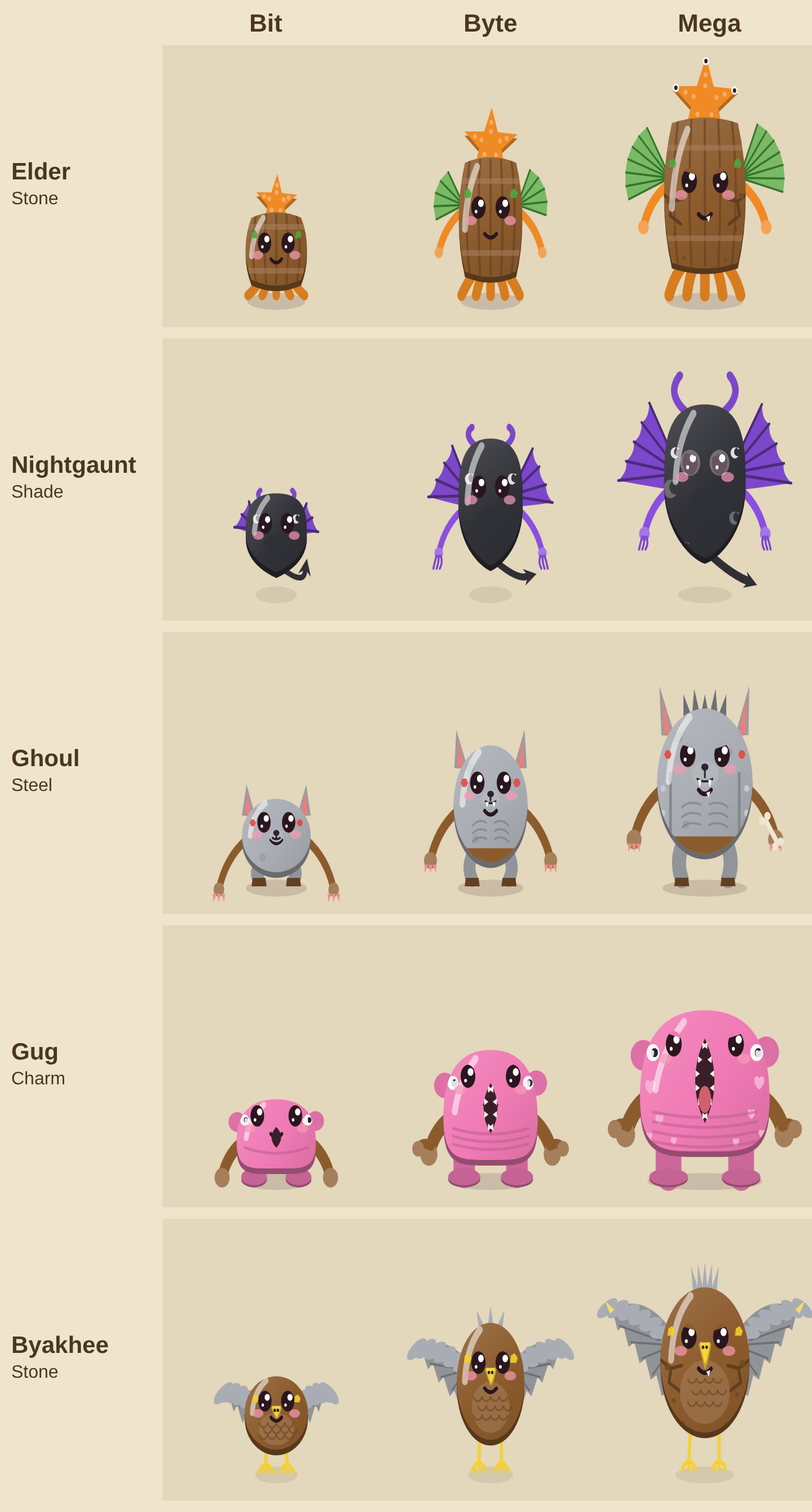
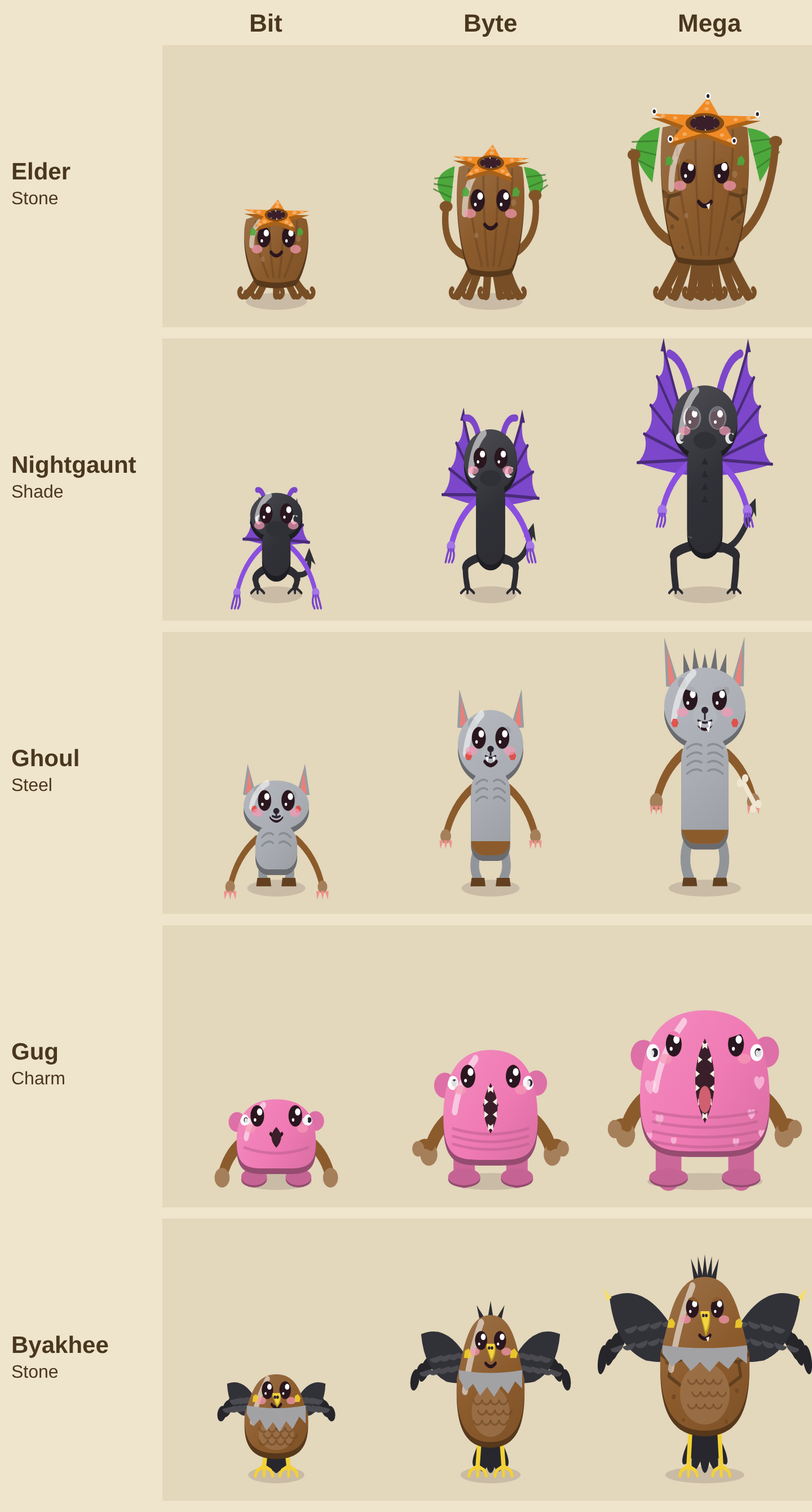
Redraw four of horror group 2 to Gid's notes
Ghoul stands as a gaunt dog-headed person, Nightgaunt is a thin crouching gargoyle with
raised bat wings, Elder is a squid body with a flat starfish mouth on top, and Byakhee is a
ragged vulture with a pale ruff and spread feathered wings. Gug unchanged.

Claude-Session: https://claude.ai/code/session_01MQWzxVrGaM5SWzbnobBWB8

diff --git a/prototype/chibi.js b/prototype/chibi.js
@@ -3483,84 +3483,98 @@ x.feet.push([g.cx, 182, 10]); },
       head: g => [g.cx, g.top, g.bw * 0.46],
       face(c, g, x, look) { const hh = FAM.Migo.hh(g); return faceTwo(c, g, x, look, { ey: hh * 0.5 / g.bh, ex: 0.22, my: hh * 0.78 / g.bh, s: by(g.stage, 0.95, 1, 1.05) }); }
     },
-    /* Elder: an elder thing. A ridged barrel with a five-pointed starfish for a head and a star of short feet under it. A short barrel and a small star; tentacle arms and fan wings folding out of its ridges from Byte; a tall barrel, wide fan wings, eyes on the tips of its star and longer arms at Mega */
+    /* Elder: an elder thing. A squid body, wide at the top and tapering down to a skirt of short tentacles, with a starfish lying flat on top that opens in the middle as its mouth. A small star and five tentacles; squid fins and two long arms from Byte; a wide star with eyes on its tips, bigger fins and eight tentacles at Mega */
     Elder: {
-      special: true, dims: { Bit: [58, 58], Byte: [66, 76], Mega: [76, 94] }, ll: st => by(st, 8, 10, 12),
-      bottom(st) { return 182 - this.ll(st); }, height(st) { return this.dims[st][1] + this.ll(st) + by(st, 22, 30, 40); },
-      path(c, g) { const L = g.left, R = g.left + g.bw, bu = g.bw * 0.06; c.beginPath(); c.moveTo(L + bu * 2, g.top + 4); c.quadraticCurveTo(g.cx, g.top - 4, R - bu * 2, g.top + 4);   // a barrel bulging at the middle
-        c.quadraticCurveTo(R + bu, g.top + g.bh / 2, R - bu * 2, g.bot - 4); c.quadraticCurveTo(g.cx, g.bot + 4, L + bu * 2, g.bot - 4); c.quadraticCurveTo(L - bu, g.top + g.bh / 2, L + bu * 2, g.top + 4); c.closePath(); },
-      arms: 'stub', armW: st => by(st, 0, 6, 7), handR: st => by(st, 0, 4, 5), shoulderY: 0.46, armK: 1.3,
-      star(c, cx, cy, r, col, rot) { c.fillStyle = rgb(col); c.beginPath(); for (let k = 0; k < 10; k++) { const a = rot + k * Math.PI / 5 - Math.PI / 2, rr = k % 2 ? r * 0.42 : r; c.lineTo(cx + Math.cos(a) * rr, cy + Math.sin(a) * rr); } c.closePath(); c.fill(); },
-      behind(c, g, x) { const S = g.stage, sw = Math.sin(x.t / 500) * 0.05, r = by(S, 20, 26, 32), cy = g.top - r * 0.35;   // the starfish head
-        this.star(c, g.cx, cy + 3, r, dk(x.parts, 0.25), sw); this.star(c, g.cx, cy, r, x.parts, sw);
-        c.fillStyle = rgb(lt(x.parts, 0.3)); for (let k = 0; k < 5; k++) { const a = sw + k * Math.PI * 2 / 5 - Math.PI / 2; for (const f of [0.35, 0.6]) { c.beginPath(); c.arc(g.cx + Math.cos(a) * r * f, cy + Math.sin(a) * r * f, 1.8, 0, 7); c.fill(); } }   // bumps along each arm of the star
-        if (S === 'Mega') for (let k = 0; k < 5; k++) { const a = sw + k * Math.PI * 2 / 5 - Math.PI / 2, ex = g.cx + Math.cos(a) * r * 0.9, ey = cy + Math.sin(a) * r * 0.9; c.fillStyle = '#fff'; c.beginPath(); c.arc(ex, ey, 3, 0, 7); c.fill(); c.fillStyle = '#2b2430'; c.beginPath(); c.arc(ex, ey, 1.6, 0, 7); c.fill(); }   // eyes on the tips
-        if (S !== 'Bit') for (const sd of [-1, 1]) { const fl = Math.sin(x.t / 400 + sd) * 0.08, n = by(S, 0, 4, 6), len = by(S, 0, 28, 42);   // fan wings folding out of its ridges
-          c.save(); c.translate(g.cx + sd * g.bw * 0.4, g.top + g.bh * 0.4); c.scale(sd, 1); c.rotate(-0.5 + fl); c.fillStyle = rgba(lt(x.acc, 0.1), 0.8); c.beginPath(); c.moveTo(0, 0);
-          for (let k = 0; k <= n; k++) { const a = -0.6 + k / n * 1.4; c.lineTo(Math.cos(a) * len, Math.sin(a) * len); } c.closePath(); c.fill();
-          c.strokeStyle = rgb(dk(x.acc, 0.3)); c.lineWidth = 1.5; for (let k = 0; k <= n; k++) { const a = -0.6 + k / n * 1.4; c.beginPath(); c.moveTo(0, 0); c.lineTo(Math.cos(a) * len, Math.sin(a) * len); c.stroke(); } c.restore(); }
-        for (let k = 0; k < 5; k++) { const f = k / 4 - 0.5, fx = g.cx + f * g.bw * 0.7, lift = Math.max(0, Math.sin(x.t / 140 + k * 1.3)) * 3 * Math.abs(x.walk);   // a star of short, stubby feet
-          limb(c, [g.cx + f * g.bw * 0.4, g.bot - 6, fx, g.bot + 4, fx + f * 10, 181 - lift], by(S, 7, 8, 9), dk(x.parts, 0.1), k < 2 ? x.L.legL : x.L.legR, x.t); x.feet.push([fx + f * 10, 182 - lift, 4]); } },
-      inside(c, g, x) { const S = g.stage; c.strokeStyle = rgba(dk(x.body, 0.3), 0.6); c.lineWidth = 2;   // the ridges running down the barrel
-        for (const f of [-0.36, -0.18, 0, 0.18, 0.36]) { c.beginPath(); c.moveTo(g.cx + f * g.bw * 0.86, g.top + 2); c.quadraticCurveTo(g.cx + f * g.bw * 1.12, g.top + g.bh / 2, g.cx + f * g.bw * 0.86, g.bot - 2); c.stroke(); }
-        c.fillStyle = rgba(lt(x.body, 0.25), 0.5); for (const fy of [0.2, 0.8]) { c.fillRect(g.left, g.top + g.bh * fy - 2, g.bw, 4); } },   // hoops round the barrel
-      hl: g => [g.left + g.bw * 0.12, g.top + g.bh * 0.6, g.left + g.bw * 0.14, g.top + g.bh * 0.3, g.left + g.bw * 0.3, g.top + g.bh * 0.08],
-      head: g => [g.cx, g.top - 10, g.bw * 0.4],
-      face: (c, g, x, look) => faceTwo(c, g, x, look, { ey: 0.42, ex: 0.18, my: 0.64, s: by(g.stage, 0.72, 0.78, 0.84) })
-    },
-    /* Nightgaunt: a smooth black shape with no mouth, only two pale eyes, curved horns, bat wings and a barbed tail. Small wings and nub horns; long thin arms, bigger wings and a longer tail from Byte; wide ragged wings, long horns curling in and glowing eyes at Mega */
-    Nightgaunt: {
-      special: true, float: true, dims: { Bit: [54, 62], Byte: [62, 80], Mega: [72, 96] }, slots: { feet: false },
-      bottom(st) { return by(st, 168, 164, 160); }, height(st) { return this.dims[st][1] + by(st, 26, 34, 46) + (182 - this.bottom(st)); },
-      path(c, g) { const R = g.left + g.bw; c.beginPath(); c.moveTo(g.cx, g.top); c.bezierCurveTo(g.cx + g.bw * 0.5, g.top, R, g.top + g.bh * 0.3, R, g.top + g.bh * 0.5);   // a smooth teardrop, narrowing to a point under it
-        c.bezierCurveTo(R, g.top + g.bh * 0.78, g.cx + g.bw * 0.2, g.bot - 4, g.cx, g.bot); c.bezierCurveTo(g.cx - g.bw * 0.2, g.bot - 4, g.left, g.top + g.bh * 0.78, g.left, g.top + g.bh * 0.5);
-        c.bezierCurveTo(g.left, g.top + g.bh * 0.3, g.cx - g.bw * 0.5, g.top, g.cx, g.top); c.closePath(); },
-      arms: 'stub', armW: st => by(st, 0, 5, 6), handR: st => by(st, 0, 4, 5), shoulderY: 0.56, armK: 1.4,
-      wing(c, sx, sy, sd, span, h, ribs, col, t) { const fl = Math.sin(t / 260) * 0.14; c.save(); c.translate(sx, sy); c.scale(sd, 1); c.rotate(-0.1 - fl);
-        const tips = []; for (let k = 0; k < ribs; k++) { const f = ribs > 1 ? k / (ribs - 1) : 0; tips.push([span * (0.5 + f * 0.5), -h * (1 - f * 1.1)]); }
-        c.fillStyle = rgb(col); c.beginPath(); c.moveTo(0, 0); c.lineTo(tips[0][0], tips[0][1]);
-        for (let k = 1; k < ribs; k++) { const a = tips[k - 1], b = tips[k]; c.quadraticCurveTo((a[0] + b[0]) * 0.45, (a[1] + b[1]) * 0.45, b[0], b[1]); }
-        c.quadraticCurveTo(span * 0.4, h * 0.2, 0, h * 0.25); c.closePath(); c.fill();
-        c.strokeStyle = rgb(dk(col, 0.4)); c.lineWidth = 2; c.lineCap = 'round'; for (const [px, py] of tips) { c.beginPath(); c.moveTo(0, 0); c.lineTo(px, py); c.stroke(); } c.restore(); },
+      special: true, dims: { Bit: [60, 54], Byte: [70, 70], Mega: [82, 86] }, ll: st => by(st, 12, 16, 20), slots: { feet: false },
+      bottom(st) { return 182 - this.ll(st); }, height(st) { return this.dims[st][1] + this.ll(st) + by(st, 12, 16, 22); },
+      path(c, g) { const L = g.left, R = g.left + g.bw, bw2 = g.bw * 0.28; c.beginPath(); c.moveTo(L + 4, g.top + 6); c.quadraticCurveTo(g.cx, g.top - 2, R - 4, g.top + 6);   // a squid body, wide at the top
+        c.bezierCurveTo(R + 2, g.top + g.bh * 0.4, g.cx + bw2 * 1.4, g.bot - 6, g.cx + bw2, g.bot); c.quadraticCurveTo(g.cx, g.bot + 4, g.cx - bw2, g.bot); c.bezierCurveTo(g.cx - bw2 * 1.4, g.bot - 6, L - 2, g.top + g.bh * 0.4, L + 4, g.top + 6); c.closePath(); },
       behind(c, g, x) { const S = g.stage;
-        for (const sd of [-1, 1]) this.wing(c, g.cx + sd * g.bw * 0.3, g.top + g.bh * 0.45, sd, by(S, 22, 40, 58), by(S, 18, 34, 50), by(S, 3, 4, 5), dk(x.parts, 0.1), x.t + sd * 150);
-        const sw = Math.sin(x.t / 400) * 6, q = [g.cx, g.bot - 6, g.cx + 20 + sw, g.bot + 10, g.cx + by(S, 22, 30, 38) + sw, 182 - by(S, 14, 10, 6)];   // a long barbed tail
-        limb(c, q, by(S, 4, 5, 6), dk(x.body, 0.05), x.L.legR, x.t); c.fillStyle = rgb(dk(x.body, 0.05)); c.save(); c.translate(q[4], q[5]); c.rotate(Math.atan2(q[5] - q[3], q[4] - q[2])); c.beginPath(); c.moveTo(-2, -6); c.lineTo(10, 0); c.lineTo(-2, 6); c.lineTo(2, 0); c.closePath(); c.fill(); c.restore();
-        for (const sd of [-1, 1]) { const hl = by(S, 8, 14, 22), bx = g.cx + sd * g.bw * 0.22, byy = g.top + 6; c.strokeStyle = rgb(dk(x.parts, 0.1)); c.lineWidth = by(S, 4, 5, 6); c.lineCap = 'round';   // horns curving in
-          c.beginPath(); c.moveTo(bx, byy); c.quadraticCurveTo(bx + sd * hl * 0.9, byy - hl * 0.6, bx + sd * hl * 0.3, byy - hl * (S === 'Mega' ? 1.2 : 1)); c.stroke(); } },
-      front(c, g, x) { if (g.stage === 'Bit' || x.back) return; for (const sd of [-1, 1]) { const a = x.P.arm[sd < 0 ? 0 : 1], k = this.armK, hx = g.cx + sd * (g.bw / 2 - 4) + sd * a[2] * k, hy = g.top + g.bh * this.shoulderY + a[3] * k;   // long thin claws
+        if (S !== 'Bit') for (const sd of [-1, 1]) { const fw = by(S, 0, 22, 30), fh = by(S, 0, 30, 40), sw = Math.sin(x.t / 300 + sd) * 0.1;   // squid fins on its sides
+          c.save(); c.translate(g.cx + sd * (g.bw / 2 + 2), g.top + g.bh * 0.26); c.scale(sd, 1); c.rotate(sw - 0.2); c.fillStyle = rgb(x.acc); c.beginPath(); c.moveTo(0, -fh / 2); c.quadraticCurveTo(fw * 1.3, -fh * 0.1, 0, fh / 2); c.closePath(); c.fill();
+          c.strokeStyle = rgba(dk(x.acc, 0.3), 0.7); c.lineWidth = 1.2; for (const f of [-0.25, 0, 0.25]) { c.beginPath(); c.moveTo(0, f * fh); c.lineTo(fw * 0.8, f * fh * 0.5); c.stroke(); } c.restore(); }
+        if (S !== 'Bit') for (const sd of [-1, 1]) { const sw = Math.sin(x.t / 420 + sd) * 6, q = [g.cx + sd * g.bw * 0.22, g.bot - 8, g.cx + sd * g.bw * 0.7, g.bot - g.bh * 0.2 + sw, g.cx + sd * g.bw * by(S, 0, 0.62, 0.76), g.top + g.bh * by(S, 0, 0.36, 0.2) + sw];   // two long arms
+          limb(c, q, by(S, 0, 6, 7), dk(x.body, 0.08), sd < 0 ? x.L.armL : x.L.armR, x.t); c.fillStyle = rgb(dk(x.body, 0.08)); c.beginPath(); c.ellipse(q[4], q[5], 6, 4, 0, 0, 7); c.fill(); }
+        const n = by(S, 5, 6, 8); for (let k = 0; k < n; k++) { const f = k / (n - 1) - 0.5, bx = g.cx + f * g.bw * 0.4, fx = g.cx + f * g.bw * 0.86, sw = Math.sin(x.t / 260 + k * 1.4) * 3, lift = Math.max(0, Math.sin(x.t / 140 + k)) * 3 * Math.abs(x.walk);   // a skirt of short tentacles
+          limb(c, [bx, g.bot - 6, (bx + fx) / 2 + sw, g.bot + this.ll(S) * 0.5, fx + sw, 181 - lift], by(S, 6, 7, 8), dk(x.body, 0.14), k < n / 2 ? x.L.legL : x.L.legR, x.t);
+          c.strokeStyle = rgb(dk(x.body, 0.14)); c.lineWidth = 4; c.lineCap = 'round'; c.beginPath(); c.arc(fx + sw + (f < 0 ? -3 : 3), 179 - lift, 3, f < 0 ? 0 : Math.PI, f < 0 ? Math.PI * 1.3 : -Math.PI * 0.3, f >= 0); c.stroke(); x.feet.push([fx + sw, 182 - lift, 4]); } },
+      inside(c, g, x) { c.strokeStyle = rgba(dk(x.body, 0.25), 0.5); c.lineWidth = 2;   // ridges down its body
+        for (const f of [-0.3, -0.1, 0.1, 0.3]) { c.beginPath(); c.moveTo(g.cx + f * g.bw, g.top + 8); c.quadraticCurveTo(g.cx + f * g.bw * 1.05, g.top + g.bh * 0.5, g.cx + f * g.bw * 0.4, g.bot - 2); c.stroke(); }
+        c.fillStyle = rgba(lt(x.body, 0.25), 0.5); for (const [fx, fy, r] of [[0.2, 0.3, 3], [0.82, 0.4, 2.5], [0.3, 0.7, 2]]) { c.beginPath(); c.arc(g.left + g.bw * fx, g.top + g.bh * fy, r, 0, 7); c.fill(); } },
+      front(c, g, x) { const S = g.stage, r = g.bw * by(S, 0.5, 0.56, 0.62), sq = 0.34, cy = g.top + 3, rot = Math.sin(x.t / 900) * 0.06, col = x.parts;   // the starfish lying flat on top
+        const pt = (k, rr) => { const a = rot + k * Math.PI / 5 - Math.PI / 2; return [g.cx + Math.cos(a) * rr, cy + Math.sin(a) * rr * sq]; };
+        for (const [dy, cl] of [[3, dk(col, 0.3)], [0, col]]) { c.fillStyle = rgb(cl); c.beginPath(); for (let k = 0; k < 10; k++) { const [px, py] = pt(k, k % 2 ? r * 0.38 : r); c.lineTo(px, py + dy); } c.closePath(); c.fill(); }
+        c.fillStyle = rgb(lt(col, 0.3)); for (let k = 0; k < 10; k += 2) for (const f of [0.55, 0.78]) { const [px, py] = pt(k, r * f); c.beginPath(); c.ellipse(px, py, 2, 1.2, 0, 0, 7); c.fill(); }   // bumps along each arm
+        const o = 0.55 + 0.45 * Math.sin(x.t / 600), mr = r * 0.26 * (0.6 + 0.4 * o);   // the mouth in the middle of the star, opening and closing
+        c.fillStyle = rgb(dk(col, 0.45)); c.beginPath(); c.ellipse(g.cx, cy, mr * 1.3, mr * sq * 1.3 + 1, 0, 0, 7); c.fill(); c.fillStyle = '#3a1f2a'; c.beginPath(); c.ellipse(g.cx, cy, mr, mr * sq + 0.5, 0, 0, 7); c.fill();
+        c.fillStyle = '#f2ece0'; for (let k = 0; k < 8; k++) { const a = k / 8 * Math.PI * 2, px = g.cx + Math.cos(a) * mr, py = cy + Math.sin(a) * (mr * sq + 0.5); c.beginPath(); c.moveTo(px, py); c.lineTo(px - Math.cos(a) * 3, py - Math.sin(a) * 1.4); c.lineTo(px + Math.sin(a) * 1.4, py); c.closePath(); c.fill(); }
+        if (S === 'Mega') for (let k = 0; k < 10; k += 2) { const [ex, ey] = pt(k, r * 0.94); c.fillStyle = '#fff'; c.beginPath(); c.arc(ex, ey - 2, 2.6, 0, 7); c.fill(); c.fillStyle = '#2b2430'; c.beginPath(); c.arc(ex, ey - 2, 1.4, 0, 7); c.fill(); } },   // eyes on the tips
+      hl: g => [g.left + g.bw * 0.14, g.top + g.bh * 0.5, g.left + g.bw * 0.14, g.top + g.bh * 0.26, g.left + g.bw * 0.3, g.top + g.bh * 0.12],
+      head: g => [g.cx, g.top + 2, g.bw * 0.44],
+      face: (c, g, x, look) => faceTwo(c, g, x, look, { ey: 0.38, ex: 0.18, my: 0.6, s: by(g.stage, 0.72, 0.78, 0.84) })
+    },
+    /* Nightgaunt: a thin black gargoyle with no mouth, only two pale eyes, horns curling back, big bat wings, a barbed tail and long clawed limbs, crouching. Small wings and nub horns; long thin arms and wings over its head from Byte; huge wings, long curling horns, spines down its back and glowing eyes at Mega */
+    Nightgaunt: {
+      special: true, dims: { Bit: [50, 66], Byte: [56, 86], Mega: [62, 104] }, ll: st => by(st, 10, 14, 18),
+      bottom(st) { return 182 - this.ll(st); }, height(st) { return this.dims[st][1] + this.ll(st) + by(st, 22, 40, 58); },
+      hh: g => g.bh * by(g.stage, 0.54, 0.46, 0.42),
+      path(c, g) { const hh = this.hh(g), tw = g.bw * 0.5; c.beginPath(); c.ellipse(g.cx, g.top + hh / 2, g.bw * 0.46, hh / 2, 0, 0, 7);   // a smooth head on a thin body
+        c.moveTo(g.cx + tw / 2, g.top + hh * 0.85); c.roundRect(g.cx - tw / 2, g.top + hh * 0.85, tw, g.bot - g.top - hh * 0.85, [tw * 0.3, tw * 0.3, tw * 0.5, tw * 0.5]); },
+      arms: 'stub', armW: st => by(st, 4, 5, 5), handR: st => by(st, 3.5, 4, 4.5), armK: 1.5,
+      shoulder(g) { return { y: g.top + this.hh(g) + 6, dx: g.bw * 0.24 }; },
+      wing(c, sx, sy, sd, span, h, ribs, col, t) { const fl = Math.sin(t / 260) * 0.1; c.save(); c.translate(sx, sy); c.scale(sd, 1); c.rotate(0.05 - fl);   // a bat wing raised over its head
+        const tips = []; for (let k = 0; k < ribs; k++) { const f = ribs > 1 ? k / (ribs - 1) : 0; tips.push([span * (0.35 + f * 0.65), -h * (1 - f * 0.95)]); }
+        c.fillStyle = rgb(col); c.beginPath(); c.moveTo(0, 0); c.lineTo(tips[0][0], tips[0][1]);
+        for (let k = 1; k < ribs; k++) { const a = tips[k - 1], b = tips[k]; c.quadraticCurveTo((a[0] + b[0]) * 0.42, (a[1] + b[1]) * 0.42, b[0], b[1]); }
+        c.quadraticCurveTo(span * 0.4, h * 0.1, 0, h * 0.14); c.closePath(); c.fill();
+        c.strokeStyle = rgb(dk(col, 0.4)); c.lineWidth = 2.2; c.lineCap = 'round'; for (const [px, py] of tips) { c.beginPath(); c.moveTo(0, 0); c.lineTo(px, py); c.stroke(); }
+        c.fillStyle = rgb(dk(col, 0.4)); c.beginPath(); c.moveTo(tips[0][0] - 2, tips[0][1] + 3); c.lineTo(tips[0][0] - 1, tips[0][1] - 7); c.lineTo(tips[0][0] + 3, tips[0][1] + 2); c.closePath(); c.fill(); c.restore(); },   // a hook on the top
+      behind(c, g, x) { const S = g.stage, hh = this.hh(g);
+        for (const sd of [-1, 1]) this.wing(c, g.cx + sd * g.bw * 0.16, g.top + hh * 1.05, sd, by(S, 22, 36, 52), by(S, 24, 56, 82), by(S, 3, 4, 5), dk(x.parts, 0.1), x.t + sd * 150);
+        const sw = Math.sin(x.t / 400) * 6, q = [g.cx + 4, g.bot - 6, g.cx + 26 + sw, g.bot + 6, g.cx + by(S, 26, 34, 42) + sw, g.bot - by(S, 10, 20, 30)];   // a barbed tail curling up
+        limb(c, q, by(S, 4, 4.5, 5), dk(x.body, 0.05), x.L.legR, x.t); c.fillStyle = rgb(dk(x.body, 0.05)); c.save(); c.translate(q[4], q[5]); c.rotate(Math.atan2(q[5] - q[3], q[4] - q[2])); c.beginPath(); c.moveTo(-2, -6); c.lineTo(10, 0); c.lineTo(-2, 6); c.lineTo(2, 0); c.closePath(); c.fill(); c.restore();
+        for (const sd of [-1, 1]) { const hl = by(S, 8, 14, 22), bx = g.cx + sd * g.bw * 0.2, byy = g.top + 6; c.strokeStyle = rgb(dk(x.parts, 0.1)); c.lineWidth = by(S, 4, 5, 6); c.lineCap = 'round';   // horns curling back
+          c.beginPath(); c.moveTo(bx, byy); c.quadraticCurveTo(bx + sd * hl * 0.3, byy - hl * 1.1, bx + sd * hl * 0.9, byy - hl * (S === 'Mega' ? 1.3 : 1)); c.stroke(); }
+        for (const sd of [-1, 1]) { const hx = g.cx + sd * g.bw * 0.14, kx = hx + sd * by(S, 12, 16, 20), lift = Math.max(0, sd * x.walk) * 4, fx = kx - sd * 2;   // thin crouching legs, knees out
+          limb(c, [hx, g.bot - 6, kx, g.bot - 2, kx, g.bot + 2], by(S, 6, 6, 7), dk(x.body, 0.1), sd < 0 ? x.L.legL : x.L.legR, x.t); limb(c, [kx, g.bot + 2, kx, (g.bot + 182) / 2, fx, 180 - lift], by(S, 5, 5, 6), dk(x.body, 0.1), sd < 0 ? x.L.legL : x.L.legR, x.t);
+          c.strokeStyle = rgb(dk(x.body, 0.1)); c.lineWidth = 2; for (const k of [-1, 0, 1]) { c.beginPath(); c.moveTo(fx, 180 - lift); c.quadraticCurveTo(fx + k * 4, 182 - lift, fx + k * 6, 184 - lift); c.stroke(); } x.feet.push([fx, 182 - lift, 5]); } },
+      inside(c, g, x) { const S = g.stage, hh = this.hh(g); if (S !== 'Mega') return; c.fillStyle = rgb(dk(x.body, 0.2)); for (let k = 0; k < 4; k++) { const y = g.top + hh + 6 + k * 9; c.beginPath(); c.moveTo(g.cx - 3, y); c.lineTo(g.cx, y - 5); c.lineTo(g.cx + 3, y); c.closePath(); c.fill(); } },   // spines down its front
+      front(c, g, x) { if (x.back) return; const sh = this.shoulder(g); for (const sd of [-1, 1]) { const a = x.P.arm[sd < 0 ? 0 : 1], k = this.armK, hx = g.cx + sd * sh.dx + sd * a[2] * k, hy = sh.y + a[3] * k;   // long thin claws
           c.strokeStyle = rgb(dk(x.parts, 0.1)); c.lineWidth = 1.8; c.lineCap = 'round'; for (const j of [-1, 0, 1]) { c.beginPath(); c.moveTo(hx + j * 2, hy + 2); c.quadraticCurveTo(hx + j * 4, hy + 7, hx + j * 3 + sd * 2, hy + 11); c.stroke(); } } },
-      hl: g => [g.left + g.bw * 0.14, g.top + g.bh * 0.5, g.left + g.bw * 0.16, g.top + g.bh * 0.24, g.left + g.bw * 0.36, g.top + g.bh * 0.06],
-      head: g => [g.cx, g.top, g.bw * 0.44],
-      face(c, g, x, look) { const S = g.stage, fi = faceTwo(c, g, x, look, { ey: 0.38, ex: 0.18, my: 0.6, s: by(S, 0.72, 0.78, 0.84) });
-        if (x.back) return fi; c.fillStyle = rgb(dk(x.body, 0.02)); c.beginPath(); c.ellipse(g.cx, fi.my + 2, 16 * fi.s, 9 * fi.s, 0, 0, 7); c.fill();   // it has no mouth: smooth skin over where one would be
+      hl: g => [g.left + g.bw * 0.16, g.top + g.bh * 0.3, g.left + g.bw * 0.2, g.top + g.bh * 0.12, g.left + g.bw * 0.38, g.top + g.bh * 0.03],
+      head: g => [g.cx, g.top, g.bw * 0.4],
+      face(c, g, x, look) { const S = g.stage, hh = FAM.Nightgaunt.hh(g), fi = faceTwo(c, g, x, look, { ey: hh * 0.46 / g.bh, ex: 0.18, my: hh * 0.74 / g.bh, s: by(S, 0.7, 0.72, 0.76) });
+        if (x.back) return fi; c.fillStyle = rgb(dk(x.body, 0.02)); c.beginPath(); c.ellipse(g.cx, fi.my + 2, 14 * fi.s, 8 * fi.s, 0, 0, 7); c.fill();   // it has no mouth: smooth skin over where one would be
         if (S === 'Mega') { c.save(); c.globalCompositeOperation = 'lighter'; for (const sd of [-1, 1]) { c.fillStyle = rgba(lt(x.acc, 0.3), 0.35 + Math.sin(x.t / 250) * 0.1); c.beginPath(); c.arc(g.cx + sd * fi.ex, fi.ey, 11 * fi.s, 0, 7); c.fill(); } c.restore(); }   // its eyes glow at Mega
         return fi; }
     },
-    /* Ghoul: a hunched grave-digger with a dog's snout, pointed ears, long arms that reach the ground and clawed hands. A snout, small ears and short arms; long knuckle-dragging arms, ribs and a tattered loincloth from Byte; a longer snout with fangs, bigger ears, spiky hair and a bone in its hand at Mega */
+    /* Ghoul: a gaunt, stooping person with a dog's head: a snout, pointed ears, a thin body with ribs, long arms with claws and hoof feet. A big head and short arms; long arms, a tattered loincloth and fangs from Byte; a longer snout, spiky hair, bigger ears and a bone in its hand at Mega */
     Ghoul: {
-      special: true, dims: { Bit: [60, 58], Byte: [72, 74], Mega: [84, 90] }, ll: st => by(st, 8, 11, 13),
-      bottom(st) { return 182 - this.ll(st); }, height(st) { return this.dims[st][1] + this.ll(st) + by(st, 12, 16, 24); },
-      path(c, g) { c.beginPath(); c.ellipse(g.cx, g.top + g.bh / 2, g.bw / 2, g.bh / 2, 0, 0, 7); },
-      arms: 'stub', armW: st => by(st, 6, 7, 8), handR: st => by(st, 5, 6, 7), shoulderY: 0.56, armK: 1.6,
-      hand(g, x, side) { const a = x.P.arm[side < 0 ? 0 : 1], k = this.armK, sx = g.cx + side * (g.bw / 2 - 4), sy = g.top + g.bh * this.shoulderY; return [sx + side * a[2] * k, sy + a[3] * k]; },
-      behind(c, g, x) { const S = g.stage;
-        for (const sd of [-1, 1]) { c.save(); c.translate(g.cx + sd * g.bw * 0.34, g.top + g.bh * 0.14); c.scale(sd, 1); c.rotate(-0.4 + Math.sin(x.t / 600 + sd) * 0.05);   // pointed ears
+      special: true, dims: { Bit: [58, 70], Byte: [64, 92], Mega: [72, 110] }, ll: st => by(st, 10, 16, 20),
+      bottom(st) { return 182 - this.ll(st); }, height(st) { return this.dims[st][1] + this.ll(st) + by(st, 14, 18, 26); },
+      hh: g => g.bh * by(g.stage, 0.56, 0.48, 0.44),
+      path(c, g) { const hh = this.hh(g), tw = g.bw * by(g.stage, 0.64, 0.6, 0.58); c.beginPath(); c.ellipse(g.cx, g.top + hh / 2, g.bw / 2, hh / 2, 0, 0, 7);   // a big head on a thin body
+        c.moveTo(g.cx + tw / 2, g.top + hh * 0.86); c.roundRect(g.cx - tw / 2, g.top + hh * 0.86, tw, g.bot - g.top - hh * 0.86, [tw * 0.4, tw * 0.4, tw * 0.3, tw * 0.3]); },
+      arms: 'stub', armW: st => by(st, 5, 6, 7), handR: st => by(st, 4.5, 5, 6), armK: 1.55,
+      shoulder(g) { return { y: g.top + this.hh(g) + 6, dx: g.bw * by(g.stage, 0.3, 0.28, 0.27) }; },
+      hand(g, x, side) { const sh = this.shoulder(g), a = x.P.arm[side < 0 ? 0 : 1], k = this.armK; return [g.cx + side * sh.dx + side * a[2] * k, sh.y + a[3] * k]; },
+      behind(c, g, x) { const S = g.stage, hh = this.hh(g);
+        for (const sd of [-1, 1]) { c.save(); c.translate(g.cx + sd * g.bw * 0.34, g.top + hh * 0.16); c.scale(sd, 1); c.rotate(-0.4 + Math.sin(x.t / 600 + sd) * 0.05);   // pointed ears
           c.fillStyle = rgb(dk(x.body, 0.1)); c.beginPath(); c.moveTo(-4, 4); c.lineTo(by(S, 12, 16, 22), -by(S, 14, 18, 24)); c.lineTo(8, 8); c.closePath(); c.fill(); c.fillStyle = rgb(lt(x.acc, 0.3)); c.beginPath(); c.moveTo(0, 4); c.lineTo(by(S, 9, 12, 17), -by(S, 10, 13, 18)); c.lineTo(6, 6); c.closePath(); c.fill(); c.restore(); }
         if (S === 'Mega') { c.fillStyle = rgb(dk(x.body, 0.35)); for (let k = 0; k < 5; k++) { const px = g.cx - 16 + k * 8; c.beginPath(); c.moveTo(px - 4, g.top + 6); c.lineTo(px + (k - 2) * 2, g.top - 10 - (k % 2) * 4); c.lineTo(px + 4, g.top + 6); c.closePath(); c.fill(); } }   // spiky hair
-        for (const sd of [-1, 1]) { const fx = g.cx + sd * g.bw * 0.22, lift = Math.max(0, sd * x.walk) * 4;   // crouching legs with hooved feet
-          limb(c, [fx, g.bot - 8, fx + sd * 8, g.bot + this.ll(S) * 0.2, fx + sd * 2, 179 - lift], by(S, 10, 11, 13), dk(x.body, 0.14), sd < 0 ? x.L.legL : x.L.legR, x.t);
+        for (const sd of [-1, 1]) { const fx = g.cx + sd * g.bw * 0.16, lift = Math.max(0, sd * x.walk) * 4, kx = fx + sd * by(S, 5, 9, 11);   // thin legs bent at the knee, with hoof feet
+          limb(c, [fx, g.bot - 8, kx, g.bot + this.ll(S) * 0.35, fx + sd * 2, 179 - lift], by(S, 8, 8, 9), dk(x.body, 0.14), sd < 0 ? x.L.legL : x.L.legR, x.t);
           c.fillStyle = rgb(dk(x.parts, 0.3)); c.beginPath(); c.moveTo(fx + sd * 2 - 6, 178 - lift); c.lineTo(fx + sd * 2 + 6, 178 - lift); c.lineTo(fx + sd * 2 + 7, 184 - lift); c.lineTo(fx + sd * 2 - 7, 184 - lift); c.closePath(); c.fill(); x.feet.push([fx + sd * 2, 182 - lift, 7]); } },
-      inside(c, g, x) { const S = g.stage; c.fillStyle = rgba(dk(x.body, 0.15), 0.5); for (const [fx, fy, r] of [[0.22, 0.2, 4], [0.76, 0.3, 3], [0.3, 0.8, 3]]) { c.beginPath(); c.arc(g.left + g.bw * fx, g.top + g.bh * fy, r, 0, 7); c.fill(); }   // blotches
-        if (S === 'Bit') return; c.strokeStyle = rgba(dk(x.body, 0.3), 0.6); c.lineWidth = 1.5; for (let k = 0; k < 3; k++) { const y = g.top + g.bh * (0.66 + k * 0.07); for (const sd of [-1, 1]) { c.beginPath(); c.moveTo(g.cx + sd * 4, y); c.quadraticCurveTo(g.cx + sd * g.bw * 0.16, y - 3, g.cx + sd * g.bw * 0.24, y + 2); c.stroke(); } }   // ribs
-        c.fillStyle = rgb(x.parts); c.beginPath(); c.moveTo(g.cx - g.bw * 0.36, g.bot - g.bh * 0.12); c.lineTo(g.cx + g.bw * 0.36, g.bot - g.bh * 0.12); for (let k = 0; k <= 6; k++) c.lineTo(g.cx + g.bw * (0.36 - k * 0.12), g.bot + (k % 2 ? 6 : 0)); c.closePath(); c.fill(); },   // a tattered loincloth
+      inside(c, g, x) { const S = g.stage, hh = this.hh(g), ty = g.top + hh * 0.86; c.fillStyle = rgba(dk(x.body, 0.15), 0.5); for (const [fx, fy, r] of [[0.22, 0.2, 4], [0.76, 0.3, 3]]) { c.beginPath(); c.arc(g.left + g.bw * fx, g.top + hh * fy, r, 0, 7); c.fill(); }   // blotches
+        c.strokeStyle = rgba(dk(x.body, 0.3), 0.6); c.lineWidth = 1.5; for (let k = 0; k < by(S, 2, 3, 4); k++) { const y = ty + 8 + k * 6; for (const sd of [-1, 1]) { c.beginPath(); c.moveTo(g.cx + sd * 3, y); c.quadraticCurveTo(g.cx + sd * g.bw * 0.12, y - 3, g.cx + sd * g.bw * 0.22, y + 2); c.stroke(); } }   // ribs
+        if (S !== 'Bit') { c.fillStyle = rgb(x.parts); c.beginPath(); c.moveTo(g.cx - g.bw * 0.3, g.bot - 10); c.lineTo(g.cx + g.bw * 0.3, g.bot - 10); for (let k = 0; k <= 6; k++) c.lineTo(g.cx + g.bw * (0.3 - k * 0.1), g.bot + (k % 2 ? 6 : 0)); c.closePath(); c.fill(); } },   // a tattered loincloth
       front(c, g, x) { const S = g.stage; if (x.back) return;
         for (const sd of [-1, 1]) { const [hx, hy] = this.hand(g, x, sd); c.fillStyle = rgb(lt(x.acc, 0.4)); for (const k of [-1, 0, 1]) { c.beginPath(); c.moveTo(hx + k * 4 - 1.8, hy + 3); c.lineTo(hx + k * 5, hy + 9); c.lineTo(hx + k * 4 + 1.8, hy + 3); c.closePath(); c.fill(); } }   // claws
         if (S === 'Mega') { const [hx, hy] = this.hand(g, x, 1); c.save(); c.translate(hx, hy); c.rotate(-0.6); c.fillStyle = '#efe6d2'; c.fillRect(-2, -18, 4, 22); for (const y of [-18, 4]) for (const sd of [-1, 1]) { c.beginPath(); c.arc(sd * 3, y, 3, 0, 7); c.fill(); } c.restore(); } },   // a bone
-      hl: g => [g.left + g.bw * 0.12, g.top + g.bh * 0.5, g.left + g.bw * 0.14, g.top + g.bh * 0.22, g.left + g.bw * 0.34, g.top + g.bh * 0.06],
+      hl: g => [g.left + g.bw * 0.12, g.top + g.bh * 0.3, g.left + g.bw * 0.16, g.top + g.bh * 0.12, g.left + g.bw * 0.36, g.top + g.bh * 0.03],
       head: g => [g.cx, g.top + 2, g.bw * 0.44],
-      face(c, g, x, look) { const S = g.stage, fi = faceTwo(c, g, x, look, { ey: 0.32, ex: 0.18, my: 0.56, s: by(S, 0.72, 0.78, 0.84) }), s = fi.s;
-        if (x.back) return fi; const sl = by(S, 8, 10, 14) * s, ny = fi.ey + 9 * s;   // a dog's snout with a black nose
+      face(c, g, x, look) { const S = g.stage, hh = FAM.Ghoul.hh(g), fi = faceTwo(c, g, x, look, { ey: hh * 0.4 / g.bh, ex: 0.18, my: hh * 0.74 / g.bh, s: by(S, 0.72, 0.76, 0.8) }), s = fi.s;
+        if (x.back) return fi; const sl = by(S, 8, 10, 13) * s, ny = fi.ey + 9 * s;   // a dog's snout with a black nose
         c.fillStyle = rgb(lt(x.body, 0.12)); c.beginPath(); c.ellipse(g.cx, ny + sl * 0.5, sl * 1.1, sl * 0.8, 0, 0, 7); c.fill();
         c.fillStyle = '#2b2430'; c.beginPath(); c.ellipse(g.cx, ny + 1, 4 * s, 3 * s, 0, 0, 7); c.fill();
         c.strokeStyle = '#2b2430'; c.lineWidth = 1.6; c.beginPath(); c.moveTo(g.cx, ny + 3); c.lineTo(g.cx, ny + sl * 0.7); c.moveTo(g.cx - sl * 0.6, ny + sl * 0.8); c.quadraticCurveTo(g.cx, ny + sl * 1.1, g.cx + sl * 0.6, ny + sl * 0.8); c.stroke();
@@ -3594,30 +3608,35 @@ x.feet.push([g.cx, 182, 10]); },
         if (S === 'Mega') { c.fillStyle = '#d06070'; c.beginPath(); c.ellipse(g.cx, my0 + mh * 0.72, mw * 0.32, mh * 0.16, 0, 0, 7); c.fill(); }   // a fat tongue
         return fi; }
     },
-    /* Byakhee: a ragged winged thing, half crow and half bat, with a hooked beak, a crest, bird legs with talons and wings that are feathers at the top and torn skin below. Small wings and a stubby beak; bigger wings, a crest and talons from Byte; huge torn wings, a long hooked beak, a crest of quills and claws on its wings at Mega */
+    /* Byakhee: a ragged vulture. A hunched bird with a hooked beak, a ruff of pale feathers round its neck, big feathered wings with torn tips, a fanned tail and talons. Small wings and a stubby beak; wide wings with long flight feathers and a crest from Byte; huge torn wings, a long hooked beak and claws on its wings at Mega */
     Byakhee: {
-      special: true, float: true, dims: { Bit: [56, 58], Byte: [66, 74], Mega: [78, 90] }, ll: st => by(st, 10, 14, 16),
-      bottom(st) { return by(st, 166, 160, 156); }, height(st) { return this.dims[st][1] + by(st, 22, 30, 42) + (182 - this.bottom(st)); },
-      path(c, g) { c.beginPath(); c.ellipse(g.cx, g.top + g.bh / 2, g.bw / 2, g.bh / 2, 0, 0, 7); },
-      behind(c, g, x) { const S = g.stage, fl = Math.sin(x.t / 200) * 0.2;
-        for (const sd of [-1, 1]) { const span = by(S, 26, 44, 62), h = by(S, 20, 32, 44), n = by(S, 3, 4, 5);   // wings: feathers along the top, torn skin below
-          c.save(); c.translate(g.cx + sd * g.bw * 0.3, g.top + g.bh * 0.4); c.scale(sd, 1); c.rotate(-0.1 - fl); c.fillStyle = rgb(dk(x.parts, 0.15)); c.beginPath(); c.moveTo(0, -4); c.quadraticCurveTo(span * 0.5, -h * 0.9, span, -h * 0.55);
-          for (let k = 1; k <= n * 2; k++) { const f = k / (n * 2); c.lineTo(span * (1 - f * 0.85), -h * 0.55 + f * h * 1.3 + (k % 2 ? 9 : 0)); } c.lineTo(0, h * 0.4); c.closePath(); c.fill();   // the torn skin
-          c.strokeStyle = rgb(dk(x.parts, 0.35)); c.lineWidth = 1.5; for (let k = 1; k <= n; k++) { const f = k / n; c.beginPath(); c.moveTo(4, 0); c.lineTo(span * (1 - f * 0.85 + 0.06), -h * 0.55 + f * h * 1.3); c.stroke(); }
-          c.fillStyle = rgb(x.parts); for (let k = 0; k <= n + 1; k++) { const f = k / (n + 1), px = span * f, py = -h * 0.9 * Math.sin(f * Math.PI * 0.5) * 0.62 - 3; c.save(); c.translate(px, py); c.rotate(-0.4 + f * 0.5); c.beginPath(); c.ellipse(5, 2, 11, 4.5, 0.5, 0, 7); c.fill(); c.restore(); }   // feathers along the top edge
-          if (S === 'Mega') { c.fillStyle = rgb(lt(x.acc, 0.3)); c.beginPath(); c.moveTo(span - 2, -h * 0.55); c.lineTo(span + 7, -h * 0.55 - 6); c.lineTo(span + 2, -h * 0.55 + 3); c.closePath(); c.fill(); } c.restore(); }   // a claw on the wing
-        if (S !== 'Bit') { const n = by(S, 0, 3, 5); c.fillStyle = rgb(x.parts); for (let k = 0; k < n; k++) { const f = k / (n - 1) - 0.5, px = g.cx + f * 16; c.beginPath(); c.moveTo(px - 3, g.top + 4); c.lineTo(px + f * 10, g.top - by(S, 0, 12, 18) + Math.abs(f) * 6); c.lineTo(px + 3, g.top + 4); c.closePath(); c.fill(); } }   // a crest of quills
-        for (const sd of [-1, 1]) { const fx = g.cx + sd * g.bw * 0.16, ty = 182 - 6, sw = Math.sin(x.t / 300 + sd) * 2;   // thin bird legs ending in talons that dangle as it hovers
-          c.strokeStyle = rgb(lt(x.acc, 0.05)); c.lineWidth = 3; c.lineCap = 'round'; c.beginPath(); c.moveTo(fx, g.bot - 4); c.lineTo(fx + sd * 2 + sw, ty); c.stroke();
-          for (const k of [-1, 0, 1]) { c.beginPath(); c.moveTo(fx + sd * 2 + sw, ty); c.quadraticCurveTo(fx + sd * 2 + sw + k * 5, ty + 2, fx + sd * 2 + sw + k * 6, ty + 6); c.stroke(); } } },
-      inside(c, g, x) { c.fillStyle = rgba(lt(x.body, 0.2), 0.6); c.beginPath(); c.ellipse(g.cx, g.top + g.bh * 0.72, g.bw * 0.28, g.bh * 0.22, 0, 0, 7); c.fill();   // a paler chest with feather marks
-        c.strokeStyle = rgba(dk(x.body, 0.25), 0.55); c.lineWidth = 1.4; for (let r = 0; r < 3; r++) for (let k = 0; k < 4; k++) { const px = g.cx + (k - 1.5) * 8 + (r % 2) * 4, py = g.top + g.bh * (0.62 + r * 0.08); c.beginPath(); c.arc(px, py, 4, 0.3, Math.PI - 0.3); c.stroke(); } },
-      hl: g => [g.left + g.bw * 0.12, g.top + g.bh * 0.5, g.left + g.bw * 0.14, g.top + g.bh * 0.22, g.left + g.bw * 0.34, g.top + g.bh * 0.06],
-      head: g => [g.cx, g.top + 2, g.bw * 0.44],
-      face(c, g, x, look) { const S = g.stage, fi = faceTwo(c, g, x, look, { ey: 0.34, ex: 0.18, my: 0.56, s: by(S, 0.72, 0.78, 0.84) }), s = fi.s;
-        if (x.back) return fi; const bl = by(S, 10, 13, 17) * s, by0 = fi.ey + 6 * s;   // a hooked beak
-        c.fillStyle = rgb(dk(x.acc, 0.2)); c.beginPath(); c.moveTo(g.cx - 7 * s, by0); c.lineTo(g.cx + 7 * s, by0); c.quadraticCurveTo(g.cx + 4 * s, by0 + bl, g.cx, by0 + bl + (S === 'Mega' ? 5 : 2) * s); c.quadraticCurveTo(g.cx - 4 * s, by0 + bl * 0.6, g.cx - 7 * s, by0); c.fill();
-        c.fillStyle = rgb(lt(x.acc, 0.1)); c.beginPath(); c.moveTo(g.cx - 6 * s, by0 - 1); c.lineTo(g.cx + 6 * s, by0 - 1); c.quadraticCurveTo(g.cx + 3 * s, by0 + bl * 0.8, g.cx, by0 + bl); c.quadraticCurveTo(g.cx - 3 * s, by0 + bl * 0.5, g.cx - 6 * s, by0 - 1); c.fill();
+      special: true, dims: { Bit: [56, 62], Byte: [66, 80], Mega: [78, 96] }, ll: st => by(st, 12, 16, 20),
+      bottom(st) { return 182 - this.ll(st); }, height(st) { return this.dims[st][1] + this.ll(st) + by(st, 22, 32, 46); },
+      path(c, g) { const R = g.left + g.bw; c.beginPath(); c.moveTo(g.cx, g.top); c.bezierCurveTo(g.cx + g.bw * 0.36, g.top, g.cx + g.bw * 0.4, g.top + g.bh * 0.3, R, g.top + g.bh * 0.5);   // a small head running into a heavy, hunched body
+        c.bezierCurveTo(R + 2, g.bot - g.bh * 0.1, g.cx + g.bw * 0.3, g.bot, g.cx, g.bot); c.bezierCurveTo(g.cx - g.bw * 0.3, g.bot, g.left - 2, g.bot - g.bh * 0.1, g.left, g.top + g.bh * 0.5); c.bezierCurveTo(g.cx - g.bw * 0.4, g.top + g.bh * 0.3, g.cx - g.bw * 0.36, g.top, g.cx, g.top); c.closePath(); },
+      behind(c, g, x) { const S = g.stage, fl = Math.sin(x.t / 260) * 0.12, col = x.parts;
+        c.fillStyle = rgb(dk(col, 0.2)); for (let k = -2; k <= 2; k++) { c.save(); c.translate(g.cx, g.bot - 6); c.rotate(k * 0.3); c.beginPath(); c.ellipse(0, by(S, 10, 14, 18), 5, by(S, 10, 14, 18), 0, 0, 7); c.fill(); c.restore(); }   // a fanned tail
+        for (const sd of [-1, 1]) { const span = by(S, 30, 48, 66), h = by(S, 18, 28, 38), n = by(S, 4, 6, 8);   // big feathered wings, spread
+          c.save(); c.translate(g.cx + sd * g.bw * 0.32, g.top + g.bh * 0.42); c.scale(sd, 1); c.rotate(-0.25 - fl);
+          for (let k = 0; k < n; k++) { const f = k / (n - 1), torn = S !== 'Bit' && (k === 2 || k === n - 2) ? 0.65 : 1, fx = span * (0.45 + f * 0.55), fy = -h * 0.6 + f * h * 0.9, len = by(S, 16, 22, 30) * (1.1 - f * 0.4) * torn;   // long flight feathers along the edge
+            c.fillStyle = rgb(dk(col, 0.25)); c.save(); c.translate(fx, fy); c.rotate(0.9 + f * 0.6); c.beginPath(); c.ellipse(len / 2, 0, len / 2, 4, 0, 0, 7); c.fill(); c.restore(); }
+          c.fillStyle = rgb(col); c.beginPath(); c.moveTo(0, -4); c.quadraticCurveTo(span * 0.5, -h * 1.05, span, -h * 0.6); c.quadraticCurveTo(span * 0.85, h * 0.3, span * 0.4, h * 0.45); c.quadraticCurveTo(span * 0.15, h * 0.45, 0, h * 0.35); c.closePath(); c.fill();
+          c.fillStyle = rgb(lt(col, 0.12)); for (let r = 0; r < 2; r++) for (let k = 0; k < 4 + r; k++) { const px = span * (0.15 + k * 0.17), py = -h * 0.35 + r * h * 0.32 + k * h * 0.08; c.beginPath(); c.ellipse(px, py, 6, 4, 0.4, 0, Math.PI); c.fill(); }   // rows of covert feathers
+          if (S === 'Mega') { c.fillStyle = rgb(lt(x.acc, 0.3)); c.beginPath(); c.moveTo(span - 2, -h * 0.6); c.lineTo(span + 7, -h * 0.6 - 6); c.lineTo(span + 2, -h * 0.6 + 3); c.closePath(); c.fill(); } c.restore(); }   // a claw on the wing
+        if (S !== 'Bit') { const n = by(S, 0, 3, 5); c.fillStyle = rgb(dk(col, 0.1)); for (let k = 0; k < n; k++) { const f = k / (n - 1) - 0.5, px = g.cx + f * 14; c.beginPath(); c.moveTo(px - 3, g.top + 4); c.lineTo(px + f * 12, g.top - by(S, 0, 10, 16) + Math.abs(f) * 6); c.lineTo(px + 3, g.top + 4); c.closePath(); c.fill(); } }   // a crest
+        for (const sd of [-1, 1]) { const fx = g.cx + sd * g.bw * 0.16, lift = Math.max(0, sd * x.walk) * 4;   // scaly legs with hooked talons
+          c.strokeStyle = rgb(lt(x.acc, 0.05)); c.lineWidth = 4; c.lineCap = 'round'; c.beginPath(); c.moveTo(fx, g.bot - 4); c.lineTo(fx + sd * 2, 179 - lift); c.stroke(); c.lineWidth = 2.6;
+          for (const k of [-1, 0, 1]) { c.beginPath(); c.moveTo(fx + sd * 2, 179 - lift); c.lineTo(fx + sd * 2 + k * 6, 182 - lift); c.quadraticCurveTo(fx + sd * 2 + k * 8, 184 - lift, fx + sd * 2 + k * 8, 186 - lift); c.stroke(); } x.feet.push([fx + sd * 2, 182 - lift, 6]); } },
+      inside(c, g, x) { c.fillStyle = rgba(lt(x.body, 0.2), 0.6); c.beginPath(); c.ellipse(g.cx, g.top + g.bh * 0.76, g.bw * 0.28, g.bh * 0.2, 0, 0, 7); c.fill();   // a paler chest with feather marks
+        c.strokeStyle = rgba(dk(x.body, 0.25), 0.55); c.lineWidth = 1.4; for (let r = 0; r < 3; r++) for (let k = 0; k < 4; k++) { const px = g.cx + (k - 1.5) * 8 + (r % 2) * 4, py = g.top + g.bh * (0.66 + r * 0.08); c.beginPath(); c.arc(px, py, 4, 0.3, Math.PI - 0.3); c.stroke(); } },
+      front(c, g, x) { const n = 9, y0 = g.top + g.bh * 0.5, col = lt(x.parts, 0.55); c.fillStyle = rgb(col); c.beginPath(); c.moveTo(g.left + 2, y0 - 4);   // a ruff of pale feathers round its neck
+        for (let k = 0; k <= n; k++) { const f = k / n, px = g.left + 2 + f * (g.bw - 4), dip = Math.sin(f * Math.PI) * 6; c.lineTo(px, y0 + dip + (k % 2 ? 7 : 0)); } c.lineTo(g.left + g.bw - 2, y0 - 6); c.quadraticCurveTo(g.cx, y0 - 2, g.left + 2, y0 - 6); c.closePath(); c.fill(); },
+      hl: g => [g.left + g.bw * 0.12, g.top + g.bh * 0.6, g.left + g.bw * 0.2, g.top + g.bh * 0.3, g.left + g.bw * 0.36, g.top + g.bh * 0.06],
+      head: g => [g.cx, g.top + 2, g.bw * 0.36],
+      face(c, g, x, look) { const S = g.stage, fi = faceTwo(c, g, x, look, { ey: 0.2, ex: 0.14, my: 0.38, s: by(S, 0.62, 0.66, 0.7) }), s = fi.s;
+        if (x.back) return fi; const bl = by(S, 12, 15, 19) * s, by0 = fi.ey + 5 * s;   // a hooked raptor's beak
+        c.fillStyle = rgb(dk(x.acc, 0.2)); c.beginPath(); c.moveTo(g.cx - 7 * s, by0); c.lineTo(g.cx + 7 * s, by0); c.quadraticCurveTo(g.cx + 8 * s, by0 + bl * 0.8, g.cx + 1 * s, by0 + bl + (S === 'Mega' ? 5 : 3) * s); c.quadraticCurveTo(g.cx - 3 * s, by0 + bl * 0.6, g.cx - 7 * s, by0); c.fill();
+        c.fillStyle = rgb(lt(x.acc, 0.1)); c.beginPath(); c.moveTo(g.cx - 6 * s, by0 - 1); c.lineTo(g.cx + 6 * s, by0 - 1); c.quadraticCurveTo(g.cx + 6 * s, by0 + bl * 0.7, g.cx + 1 * s, by0 + bl); c.quadraticCurveTo(g.cx - 3 * s, by0 + bl * 0.5, g.cx - 6 * s, by0 - 1); c.fill();
         c.fillStyle = '#2b2430'; c.beginPath(); c.arc(g.cx - 2 * s, by0 + 3 * s, 1.2, 0, 7); c.arc(g.cx + 2 * s, by0 + 3 * s, 1.2, 0, 7); c.fill(); return fi; }
     },
     /* ---------- special Snabits: found only through a colour easter egg, and only fusion changes their element ---------- */
